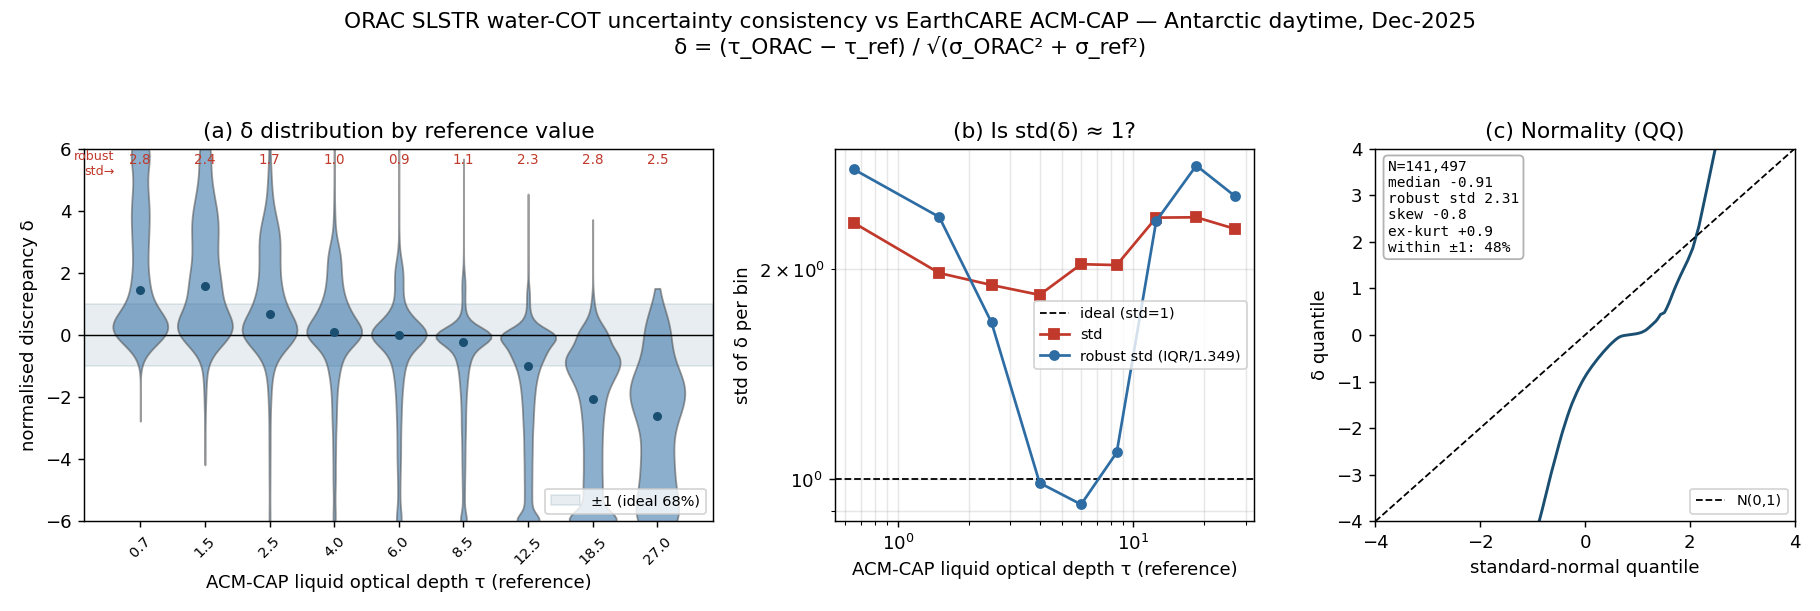
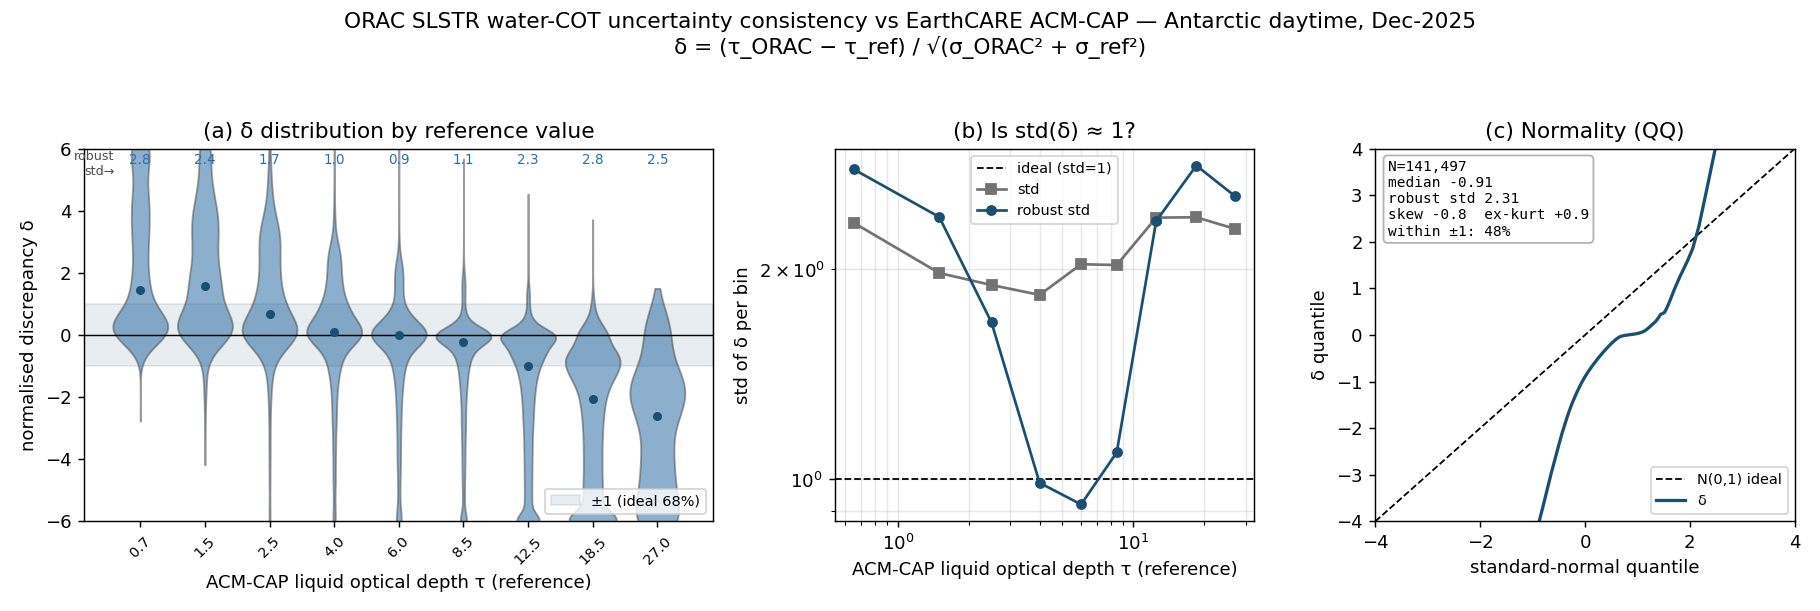
slstr(uncertainty): split CTH consistency by low vs high cloud
Color-code delta bins low(<6km)/high(>=6km), separate low/high QQ curves. Makes
the message clear: ORAC CTH uncertainty is fine for low cloud (median +0.7, robust
std 2.1, sigma 0.24 vs error 0.49 km = 2x) but catastrophically over-confident for
high cloud (median -43, robust std 60, sigma 0.29 vs error 9.7 km = 33x) -- missed
high cirrus. Added value-vs-uncertainty clarifier (accuracy != calibrated error bars).

diff --git a/scripts/slstr_uncertainty_figure.py b/scripts/slstr_uncertainty_figure.py
@@ -26,15 +26,23 @@ from scipy import stats
 
 CACHE = Path(".uncertainty_cache")
 OUT = Path("figures/slstr_uncertainty_2025-12")
-NAVY = "#1b4f72"; RED = "#c0392b"; BLUE = "#2e6da4"
+NAVY = "#1b4f72"; RED = "#c0392b"; BLUE = "#2e6da4"; GREEN = "#1b7837"
 
 
 def _robust_std(a):
     return (np.percentile(a, 75) - np.percentile(a, 25)) / 1.349
 
 
+def _qq(ax, dl, color, label, lim=4):
+    dl = dl[np.isfinite(dl)]
+    dl = dl[np.abs(dl) < np.percentile(np.abs(dl), 99.5)]  # trim extreme for display
+    qs = np.linspace(0.005, 0.995, 200)
+    ax.plot(stats.norm.ppf(qs), np.quantile(dl, qs), "-", color=color, lw=1.8, label=label)
+
+
 def error_consistency_fig(delta, xref, edges, *, xlabel, title, fname,
-                          xscale="log", clip=6.0):
+                          xscale="log", clip=6.0, split=None,
+                          split_labels=("low", "high")):
     d = pd.DataFrame({"delta": delta, "xref": xref}).replace(
         [np.inf, -np.inf], np.nan).dropna()
     d["b"] = pd.cut(d["xref"], edges)
@@ -47,32 +55,48 @@ def error_consistency_fig(delta, xref, edges, *, xlabel, title, fname,
         rstd.append(_robust_std(g["delta"].values))
         std.append(g["delta"].std())
         ns.append(len(g))
+    centers = np.array(centers)
+    # colour bins by low/high when a split is given
+    bincol = [GREEN if (split is not None and c < split) else
+              (RED if split is not None else BLUE) for c in centers]
 
     fig = plt.figure(figsize=(14, 4.7))
     gs = fig.add_gridspec(1, 3, width_ratios=[1.5, 1, 1])
     ax0 = fig.add_subplot(gs[0]); ax1 = fig.add_subplot(gs[1]); ax2 = fig.add_subplot(gs[2])
 
-    # (a) violins by x_ref bin
+    # (a) violins by x_ref bin, coloured low/high
     pos = np.arange(len(groups))
     ax0.axhspan(-1, 1, color=NAVY, alpha=0.10, zorder=0, label="±1 (ideal 68%)")
     ax0.axhline(0, color="k", lw=0.8)
     vp = ax0.violinplot(groups, positions=pos, showextrema=False, widths=0.85)
-    for b in vp["bodies"]:
-        b.set_facecolor(BLUE); b.set_alpha(0.55); b.set_edgecolor("0.3")
+    for b, c in zip(vp["bodies"], bincol):
+        b.set_facecolor(c); b.set_alpha(0.55); b.set_edgecolor("0.3")
     ax0.plot(pos, [np.median(g) for g in groups], "o", color=NAVY, ms=4, zorder=5)
-    for i, (rs, n) in enumerate(zip(rstd, ns)):
-        ax0.text(i, clip*0.92, f"{rs:.1f}", ha="center", fontsize=7.5, color=RED)
-    ax0.text(-0.4, clip*0.92, "robust\nstd→", ha="right", va="center", fontsize=7, color=RED)
+    for i, rs in enumerate(rstd):
+        ax0.text(i, clip*0.92, f"{rs:.1f}", ha="center", fontsize=7.5,
+                 color=bincol[i])
+    ax0.text(-0.4, clip*0.92, "robust\nstd→", ha="right", va="center", fontsize=7, color="0.3")
+    if split is not None:
+        xb = np.searchsorted(centers, split) - 0.5
+        ax0.axvline(xb, color="0.4", ls="--", lw=1)
+        ax0.text(xb/2, -clip*0.7, split_labels[0].upper(), color=GREEN,
+                 ha="center", fontsize=9, fontweight="bold")
+        ax0.text((xb+len(groups)-0.5)/2, -clip*0.7, split_labels[1].upper(),
+                 color=RED, ha="center", fontsize=9, fontweight="bold")
     ax0.set_xticks(pos)
     ax0.set_xticklabels([f"{c:.1f}" for c in centers], rotation=45, fontsize=8)
     ax0.set_ylim(-clip, clip); ax0.set_xlabel(xlabel); ax0.set_ylabel("normalised discrepancy δ")
     ax0.set_title("(a) δ distribution by reference value")
     ax0.legend(loc="lower right", fontsize=8)
 
-    # (b) per-bin std vs x_ref
+    # (b) per-bin std vs x_ref, with low/high shading
+    if split is not None:
+        ax1.axvspan(min(centers)*0.5, split, color=GREEN, alpha=0.07)
+        ax1.axvspan(split, max(centers)*1.5, color=RED, alpha=0.07)
+        ax1.axvline(split, color="0.4", ls="--", lw=1)
     ax1.axhline(1, color="k", ls="--", lw=1, label="ideal (std=1)")
-    ax1.plot(centers, std, "s-", color=RED, ms=5, label="std")
-    ax1.plot(centers, rstd, "o-", color=BLUE, ms=5, label="robust std (IQR/1.349)")
+    ax1.plot(centers, std, "s-", color="0.45", ms=5, label="std")
+    ax1.plot(centers, rstd, "o-", color=NAVY, ms=5, label="robust std")
     if xscale == "log":
         ax1.set_xscale("log")
     ax1.set_yscale("log")
@@ -80,21 +104,30 @@ def error_consistency_fig(delta, xref, edges, *, xlabel, title, fname,
     ax1.set_title("(b) Is std(δ) ≈ 1?"); ax1.grid(alpha=0.3, which="both")
     ax1.legend(fontsize=8)
 
-    # (c) QQ plot vs standard normal
-    dd = d["delta"].values
-    dd = dd[np.abs(dd) < np.percentile(np.abs(dd), 99.5)]  # trim extreme for the plot
-    qs = np.linspace(0.005, 0.995, 200)
-    ax2.plot(stats.norm.ppf(qs), np.quantile(dd, qs), "-", color=NAVY, lw=1.6)
+    # (c) QQ — split low vs high when requested, else single
     lim = 4
-    ax2.plot([-lim, lim], [-lim, lim], "k--", lw=1, label="N(0,1)")
+    ax2.plot([-lim, lim], [-lim, lim], "k--", lw=1, label="N(0,1) ideal")
+    if split is not None:
+        lo = d.loc[d["xref"] < split, "delta"].values
+        hi = d.loc[d["xref"] >= split, "delta"].values
+        _qq(ax2, lo, GREEN, f"{split_labels[0]} cloud")
+        _qq(ax2, hi, RED, f"{split_labels[1]} cloud")
+        txt = (f"{split_labels[0]}:  std {_robust_std(lo):.1f}  "
+               f"±1 {100*(np.abs(lo)<1).mean():.0f}%\n"
+               f"{split_labels[1]}: std {_robust_std(hi):.1f}  "
+               f"±1 {100*(np.abs(hi)<1).mean():.0f}%")
+        ax2.set_title("(c) Low vs high cloud (QQ)")
+    else:
+        _qq(ax2, d["delta"].values, NAVY, "δ")
+        full = d["delta"].values
+        txt = (f"N={len(full):,}\nmedian {np.median(full):+.2f}\n"
+               f"robust std {_robust_std(full):.2f}\n"
+               f"skew {stats.skew(full):+.1f}  ex-kurt {stats.kurtosis(full):+.1f}\n"
+               f"within ±1: {100*(np.abs(full)<1).mean():.0f}%")
+        ax2.set_title("(c) Normality (QQ)")
     ax2.set_xlim(-lim, lim); ax2.set_ylim(-lim, lim)
     ax2.set_xlabel("standard-normal quantile"); ax2.set_ylabel("δ quantile")
-    ax2.set_title("(c) Normality (QQ)"); ax2.legend(fontsize=8, loc="lower right")
-    full = d["delta"].values
-    txt = (f"N={len(full):,}\nmedian {np.median(full):+.2f}\n"
-           f"robust std {_robust_std(full):.2f}\n"
-           f"skew {stats.skew(full):+.1f}\nex-kurt {stats.kurtosis(full):+.1f}\n"
-           f"within ±1: {100*(np.abs(full)<1).mean():.0f}%")
+    ax2.legend(fontsize=8, loc="lower right")
     ax2.text(0.03, 0.97, txt, transform=ax2.transAxes, va="top", fontsize=8,
              family="monospace", bbox=dict(boxstyle="round", fc="white", ec="0.7"))
 
@@ -143,8 +176,15 @@ def do_cth():
         xlabel="ATLID cloud-top height (km, reference)",
         title="ORAC SLSTR CTH uncertainty consistency vs EarthCARE A-CTH "
               "— informative-σ subset (σ not at 20 km a-priori cap)\n"
-              "δ = (CTH_ORAC − CTH_ATLID) / σ_ORAC",
-        fname="cth_error_consistency.png", xscale="linear", clip=6.0)
+              "δ = (CTH_ORAC − CTH_ATLID) / σ_ORAC · split at 6 km",
+        fname="cth_error_consistency.png", xscale="linear", clip=6.0,
+        split=6.0, split_labels=("low <6 km", "high ≥6 km"))
+    # explicit low/high summary for the report
+    xr = v.cth_atlid_thick_km.values
+    for nm, msk in [("low  (<6 km)", xr < 6), ("high (≥6 km)", xr >= 6)]:
+        g = delta.values[msk]; g = g[np.isfinite(g)]
+        print(f"  {nm}: N={len(g):>6}  median {np.median(g):+.2f}  robust std {_robust_std(g):.1f}"
+              f"  within±1 {100*(np.abs(g)<1).mean():.0f}%")
 
 
 def main():

diff --git a/docs/reports/slstr_uncertainty_2025-12.md b/docs/reports/slstr_uncertainty_2025-12.md
@@ -20,6 +20,14 @@ diagnostics:
   errors are not the shape a single sigma can summarise.
 - **mean(delta) ≈ 0?** — a residual bias the uncertainty does not account for.
 
+> **This validates the reported *uncertainty*, not the retrieved *value*.** The two
+> are independent: a retrieval can be accurate on the typical pixel (small median
+> bias, good correlation — as CTH is) yet report **error bars that are too tight**.
+> "Good value" and "honest uncertainty" are different properties; this test only
+> asks the second. So a variable can look best in the bias/correlation validation
+> and still fail here — that is not a contradiction, it is the uncertainty analysis
+> exposing an error tail the median bias hid.
+
 ## 1. What uncertainties are available
 
 | side | source | form |
@@ -64,23 +72,30 @@ ATLID CTH is treated as truth (its precision ≈ one range bin ≪ ORAC's km-lev
 - **The stated σ is largely non-informative:** it is pinned at a **20 km a-priori
   cap for 51 % (raw) / 63 % (corrected) of pixels** — the thermal retrieval added
   no height information there. Only ~36–46 % of pixels carry an informative σ.
-- **On that informative subset** (σ not at the cap), the test still fails hard:
+- **On that informative subset, the story splits cleanly at ~6 km cloud height:**
 
 ![CTH error consistency](../../figures/slstr_uncertainty_2025-12/cth_error_consistency.png)
 
-| ATLID CTH band | robust std(δ) | reading |
-| -------------- | ------------- | ------- |
-| low (1–5 km)   | 1.7–5 | roughly plausible for low tops |
-| high (7–14 km) | **12 → 40** | massively over-confident |
+| cloud | N | median δ | robust std(δ) | within ±1 | σ vs actual \|error\| |
+| ----- | -- | -------- | ------------- | --------- | --------------------- |
+| **low (< 6 km)**  | 55 315 | +0.7 | **2.1** | 34 % | σ 0.24 km vs 0.49 km → **2×** |
+| **high (≥ 6 km)** | 27 893 | **−43** | **60** | 6 % | σ 0.29 km vs 9.7 km → **33×** |
 
-- **std(δ) climbs monotonically with cloud height**, from ~1.7 at 3–5 km to **~40
-  at 14 km**, with δ medians reaching **−5 to −6** and a strong negative skew
-  (−3.7, ex-kurt +18). ORAC places **high thin-cirrus tops too low with
-  unwarranted confidence** — the same missed-cirrus mechanism seen in the
-  cloud-mask validation (88 % of missed cloud is thin ice).
-- **Bottom line:** ORAC's CTH uncertainty is **not a usable per-pixel Gaussian σ** —
-  non-informative (a-priori-capped) for most pixels, and where informative it is
-  reliable only for low cloud and wildly over-confident for high cloud.
+- **Low cloud: ORAC's CTH uncertainty is essentially fine** — δ sits in the ±1 band
+  (robust std ~2, only mildly over-confident, as any retrieval is), and the QQ
+  curve (green, panel c) roughly follows N(0,1). The stated ±0.24 km is close to
+  the actual ±0.49 km error.
+- **High cloud: it is catastrophically over-confident** — ORAC reports ±0.3 km when
+  its top is really ~9.7 km wrong (33×), so δ collapses (robust std 60, only 6 %
+  within ±1, QQ curve in red far off the diagonal). ORAC places **high thin-cirrus
+  tops too low with unwarranted confidence** — the same missed-cirrus mechanism as
+  the cloud-mask validation (88 % of missed cloud is thin ice).
+- **std(δ) climbs monotonically with cloud height** (panel b), from ~1.7 at 3–5 km
+  to ~40 at 14 km — the failure is entirely a *high-cloud* phenomenon.
+- **Bottom line:** ORAC's CTH uncertainty is **trustworthy for low cloud** and
+  **badly over-confident for high cloud** (plus a-priori-capped for the >50 % of
+  pixels it cannot constrain). The large discrepancies come from high cloud, not
+  from the retrieval being uniformly bad.
 
 ## 4. Conclusions
 
